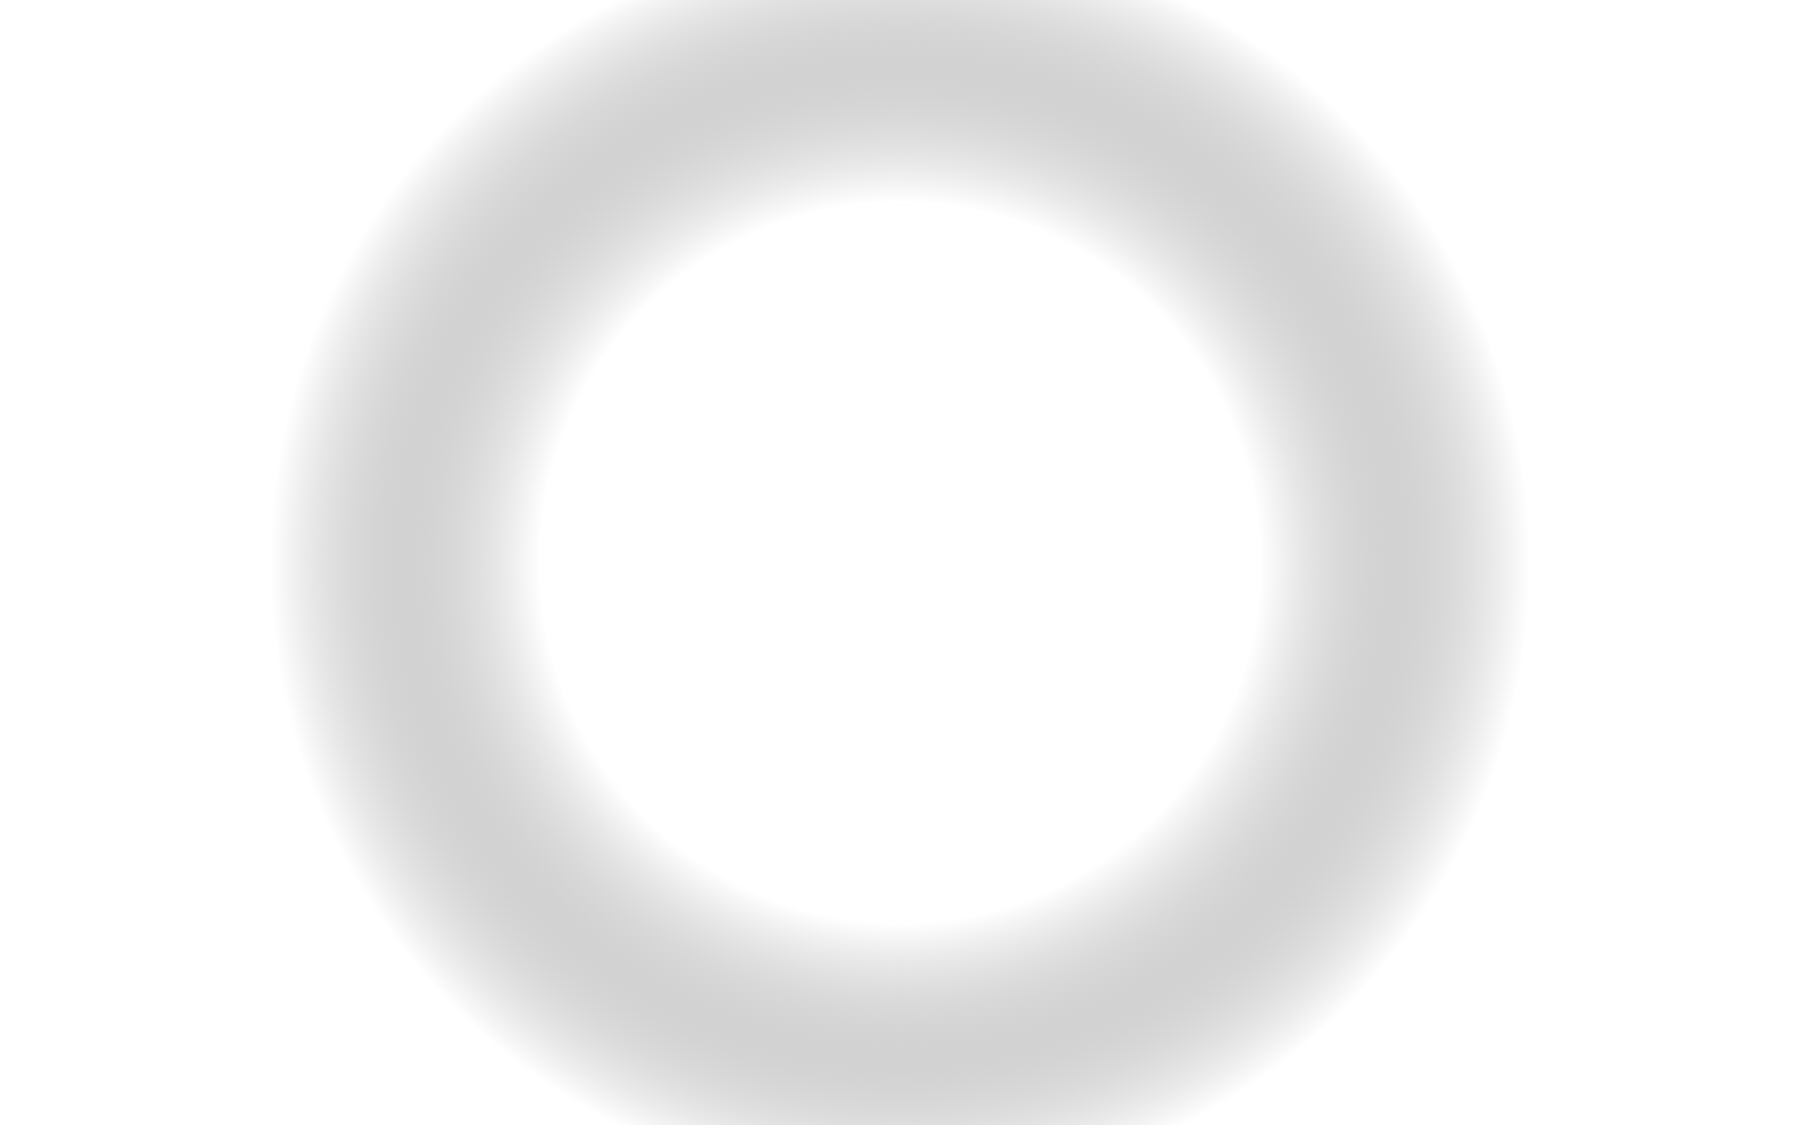
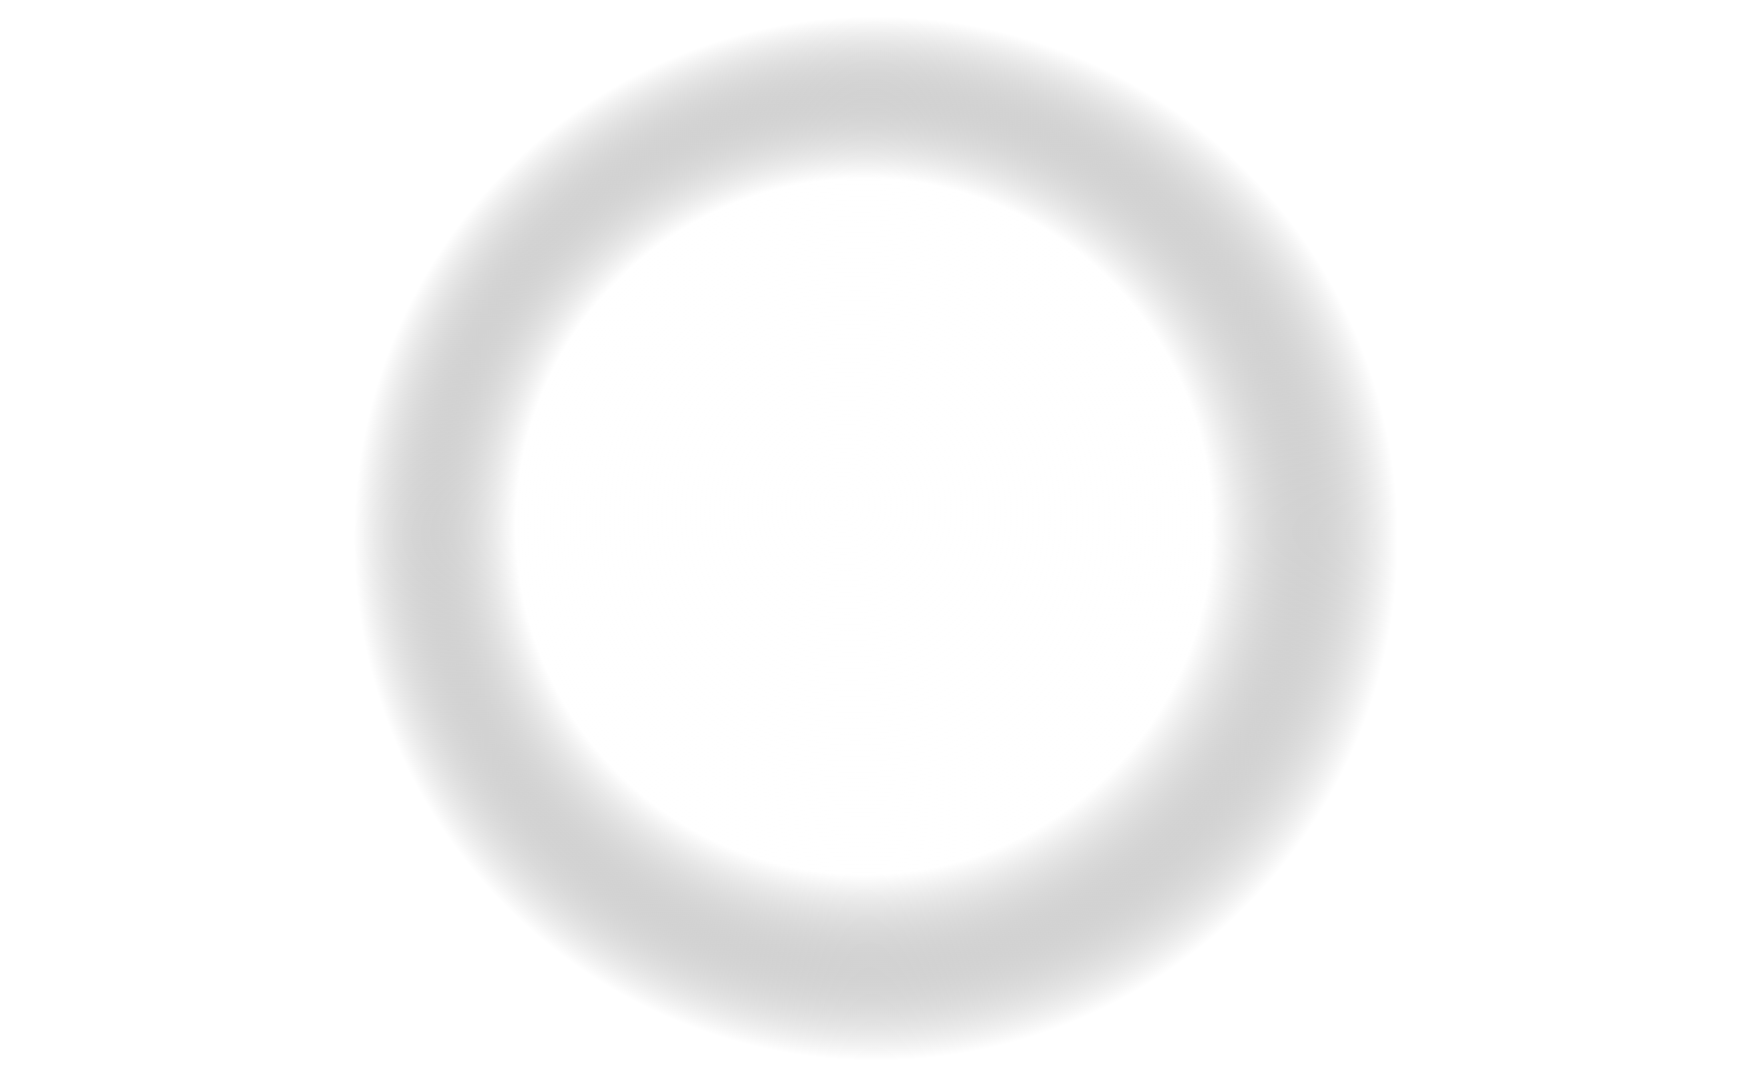
starts chromatic.systems

Changed region(s): [[0.1552, 0.0, 0.8379, 1.0]]

diff --git a/video_mask.html b/video_mask.html
@@ -8,7 +8,7 @@ body {
   /* no margin or padding */
   margin: 0;
   padding: 0;
-  background-color: black;
+  /* background-color: black; */
 }
 </style>
 </head>
@@ -20,21 +20,31 @@ body {
 var canvas = document.getElementById("canvas");
 // get the canvas context
 var ctx = canvas.getContext("2d");
-// set width and height of canvas to full screen
-canvas.width = window.innerWidth;
-canvas.height = window.innerHeight;
+const OFFSET = 30;
+// set width and height of canvas to full screen - offset
+canvas.width = window.innerWidth - OFFSET*2;
+canvas.height = window.innerHeight - OFFSET*2;
 w = canvas.width;
 h = canvas.height;
+
+// position the canvas absolute from the top+ offset left+ offset
+canvas.style.position = "absolute";
+canvas.style.top = OFFSET + "px";
+canvas.style.left = OFFSET + "px";
+
 // draw a radial gradient from white alpha 100 to black alpha 0
-var gradient = ctx.createRadialGradient(w/2, h/2, 0, w/2, h/2, w/2);
+const x0 = w/2 - OFFSET;
+const y0 = h/2 - OFFSET;
+const x1 = w/2 + OFFSET;
+const y1 = h/2 + OFFSET;
+var gradient = ctx.createRadialGradient(x0, y0, 0, x1, y1, w/2);
 gradient.addColorStop(0, "rgba(255, 255, 255, 1)");
 gradient.addColorStop(0.3, "rgba(255, 255, 255, 0.8)");
-gradient.addColorStop(0.4, "rgba(255, 255, 255, 0.7center)");
-gradient.addColorStop(0.7, "rgba(0, 0, 0, 0)");
+gradient.addColorStop(0.4, "rgba(255, 255, 255, 0.7)");
+gradient.addColorStop(0.6, "rgba(0, 0, 0, 0)");
 // set the fill style to the gradient
 ctx.fillStyle = gradient;
 // draw a rectangle to fill the canvas
 ctx.fillRect(0, 0, w, h);
-
 </script>
 </html>

diff --git a/README.md b/README.md
@@ -37,6 +37,9 @@ Live feedback, ambient learning, exploration supported by a group of mentors and
 ## Why learning 1 on 1 and pair programming
 Building together can greatly accelerate learning. A small amount of time a few days a week practicing a skill. We work with real systems and code to develop a style that fits your needs. After the inital setup of the workspace there are no taxonomies or hierarchies, no checklists or rubrics. Maybe it will be sound, poetry, or a game. Maybe it will be a new way to think about the world.
 
+## Music & Math
+![classical guitar](images/guitar.gif)
+
 ## Exploration with a new compass
 ![A globe partitioned into hexagons](images/soilsite_d3_h3.png)
 > Global soil sample data streamed into sqllite and transformed into geoJSON
